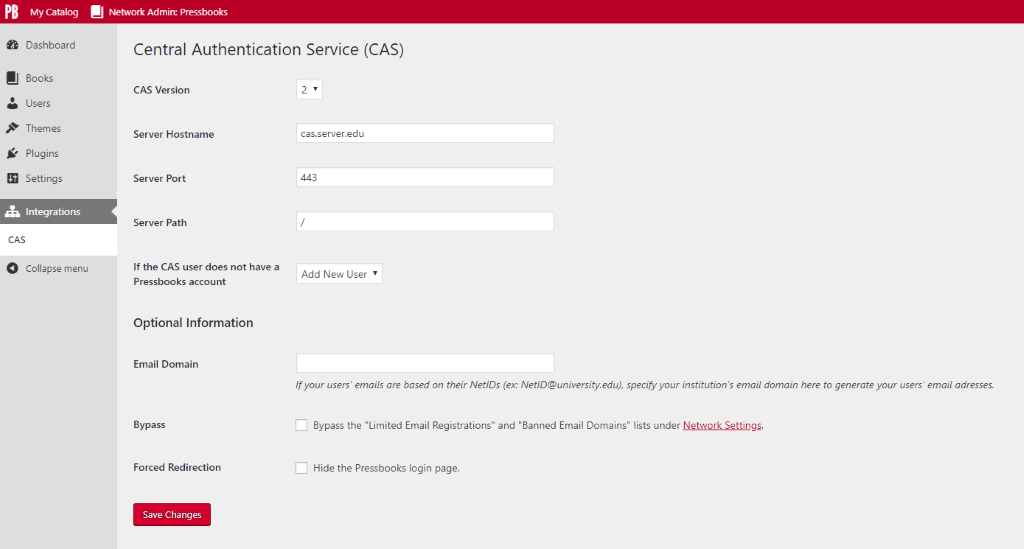
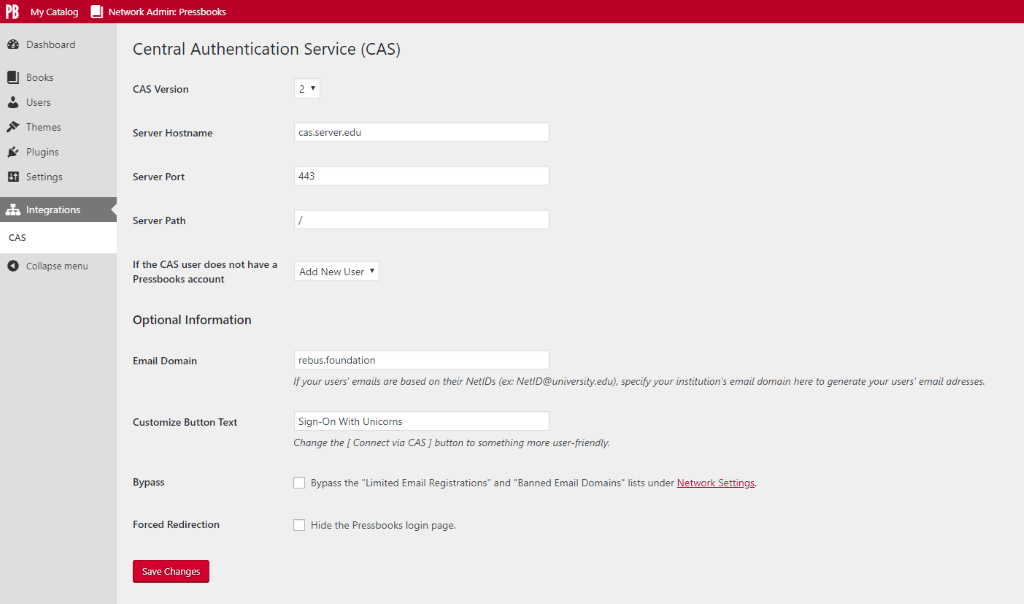
Add option to change button text

diff --git a/inc/class-cas.php b/inc/class-cas.php
@@ -40,6 +40,11 @@ class CAS {
 	private $bypass = false;
 
 	/**
+	 * @var Admin
+	 */
+	private $admin;
+
+	/**
 	 * @var bool
 	 */
 	private $forcedRedirection = false;
@@ -74,9 +79,8 @@ class CAS {
 
 	/**
 	 * @param Admin $admin
-	 * @param string $ca_cert_path Path to the ca chain that issued the cas server certificate, ie. '/path/to/cachain.pem' (optional)
 	 */
-	public function __construct( Admin $admin, $ca_cert_path = '' ) {
+	public function __construct( Admin $admin ) {
 
 		$options = $admin->getOptions();
 		if ( empty( $options['server_hostname'] ) ) {
@@ -114,6 +118,7 @@ class CAS {
 		$this->loginUrl = $login_url;
 		phpCAS::setFixedServiceURL( $this->loginUrl );
 
+		$ca_cert_path = getenv( 'PB_CAS_CERT_PATH' ); // Path to the ca chain that issued the cas server certificate, ie. '/path/to/cachain.pem'
 		if ( ! empty( $ca_cert_path ) ) {
 			phpCAS::setCasServerCACert( $ca_cert_path );
 		} else {
@@ -132,14 +137,14 @@ class CAS {
 		$this->emailDomain = ! empty( $options['email_domain'] ) ? $options['email_domain'] : "noreply.{$options['server_hostname']}";
 		$this->bypass = (bool) $options['bypass'];
 		$this->forcedRedirection = (bool) $options['forced_redirection'];
-		$this->casClientIsReady = true;
-
+		$this->admin = $admin;
 		if ( $this->forcedRedirection ) {
 			// TODO:
 			// This hijacks the same logic as seen in the shibboleth plugin.
 			// If we want to support both shibboleth & CAS on the same site, then we'll need to handle the 'login_form_shibboleth' action ourselves.
 			add_filter( 'login_url', [ $this, 'changeLoginUrl' ], 999 );
 		}
+		$this->casClientIsReady = true;
 	}
 
 	/**
@@ -247,7 +252,11 @@ class CAS {
 		}
 
 		$url = phpCAS::getServerLoginURL();
-		$button_string = __( 'Connect via CAS', 'pressbooks-cas-sso' );
+
+		$button_text = $this->admin->getOptions()['button_text'];
+		if ( empty( $button_text ) ) {
+			$button_text = __( 'Connect via CAS', 'pressbooks-cas-sso' );
+		}
 
 		?>
 		<div id="pb-cas-wrap">
@@ -258,7 +267,7 @@ class CAS {
 			printf(
 				'<div class="cas"><a href="%1$s" class="button button-hero cas">%2$s</a></div>',
 				$url,
-				$button_string
+				$button_text
 			);
 			?>
 		</div>

diff --git a/inc/class-admin.php b/inc/class-admin.php
@@ -30,7 +30,7 @@ class Admin {
 	}
 
 	/**
-	 * CAS constructor.
+	 *
 	 */
 	public function __construct() {
 
@@ -81,6 +81,7 @@ class Admin {
 				'server_path' => trailingslashit( trim( $_POST['server_path'] ) ),
 				'provision' => in_array( $_POST['provision'], [ 'refuse', 'create' ], true ) ? $_POST['provision'] : 'refuse',
 				'email_domain' => ltrim( trim( $_POST['email_domain'] ), '@' ),
+				'button_text' => trim( $_POST['button_text'] ),
 				'bypass' => ! empty( $_POST['bypass'] ) ? 1 : 0,
 				'forced_redirection' => ! empty( $_POST['forced_redirection'] ) ? 1 : 0,
 			];
@@ -114,6 +115,9 @@ class Admin {
 		}
 		if ( empty( $options['email_domain'] ) ) {
 			$options['email_domain'] = '';
+		}
+		if ( empty( $options['button_text'] ) ) {
+			$options['button_text'] = '';
 		}
 		if ( empty( $options['bypass'] ) ) {
 			$options['bypass'] = 0;

diff --git a/templates/admin.blade.php b/templates/admin.blade.php
@@ -45,6 +45,15 @@
                 </td>
             </tr>
             <tr>
+                <th><label for="button_text">{{ __('Customize Button Text', 'pressbooks-cas-sso') }}</label></th>
+                <td>
+                    <input name="button_text" id="button_text" type="text" value="{{ $options['button_text'] }}" class="regular-text"/>
+                    <p>
+                        <em>{{ __("Change the [ Connect via CAS ] button to something more user-friendly.", 'pressbooks-cas-sso') }}</em>
+                    </p>
+                </td>
+            </tr>
+            <tr>
                 <th>{{ __(' Bypass', 'pressbooks-cas-sso') }}</th>
                 <td><label><input name="bypass" id="bypass" type="checkbox"
                                   value="1" {!! checked( $options['bypass'] ) !!}/> {!!

diff --git a/inc/namespace.php b/inc/namespace.php
@@ -6,11 +6,8 @@ namespace Pressbooks\CAS;
  * @return \Jenssegers\Blade\Blade
  */
 function blade() {
-	static $blade;
-	if ( empty( $blade ) ) {
-		$views = __DIR__ . '/../templates';
-		$cache = \Pressbooks\Utility\get_cache_path();
-		$blade = new \Jenssegers\Blade\Blade( $views, $cache );
-	}
+	$views = __DIR__ . '/../templates';
+	$cache = \Pressbooks\Utility\get_cache_path();
+	$blade = new \Jenssegers\Blade\Blade( $views, $cache, new \Pressbooks\Container() );
 	return $blade;
 }
